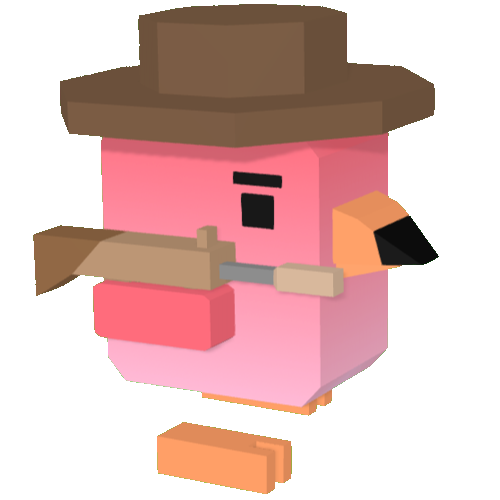
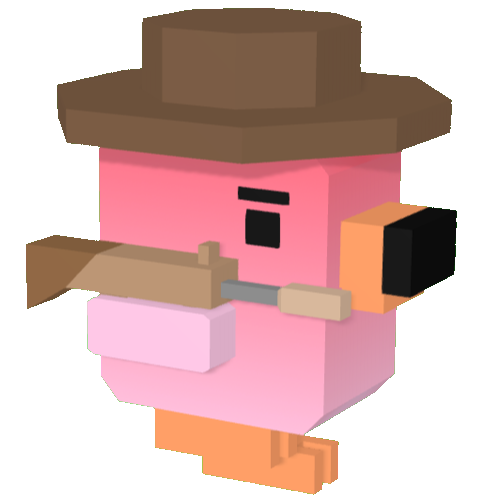
cardinal and fix up flamingo

diff --git a/ts/game/factory/entity_factory.ts b/ts/game/factory/entity_factory.ts
@@ -33,6 +33,7 @@ import { Shades } from 'game/entity/equip/shades'
 import { ShieldRing } from 'game/entity/equip/shield_ring'
 import { TopHat } from 'game/entity/equip/top_hat'
 import { BoobyBeak } from 'game/entity/equip/beak/booby_beak'
+import { CardinalBeak } from 'game/entity/equip/beak/cardinal_beak'
 import { ChickenBeak } from 'game/entity/equip/beak/chicken_beak'
 import { DuckBeak } from 'game/entity/equip/beak/duck_beak'
 import { EagleBeak } from 'game/entity/equip/beak/eagle_beak'
@@ -41,6 +42,7 @@ import { PigeonBeak } from 'game/entity/equip/beak/pigeon_beak'
 import { RavenBeak } from 'game/entity/equip/beak/raven_beak'
 import { RobinBeak } from 'game/entity/equip/beak/robin_beak'
 import { BoobyHair } from 'game/entity/equip/headwear/booby_hair'
+import { CardinalHair } from 'game/entity/equip/headwear/cardinal_hair'
 import { ChickenHair } from 'game/entity/equip/headwear/chicken_hair'
 import { FlamingoHair } from 'game/entity/equip/headwear/flamingo_hair'
 import { PigeonHair } from 'game/entity/equip/headwear/pigeon_hair'
@@ -138,6 +140,8 @@ export namespace EntityFactory {
 		[EntityType.BULLET, (options : EntityOptions) => { return new Bullet(options); }],
 		[EntityType.BUSH, (options : EntityOptions) => { return new Bush(options); }],
 		[EntityType.CALIBER, (options : EntityOptions) => { return new Caliber(options); }],
+		[EntityType.CARDINAL_BEAK, (options : EntityOptions) => { return new CardinalBeak(options); }],
+		[EntityType.CARDINAL_HAIR, (options : EntityOptions) => { return new CardinalHair(options); }],
 		[EntityType.CARTRIDGE, (options : EntityOptions) => { return new Cartridge(options); }],
 		[EntityType.CHARGED_BOLT, (options : EntityOptions) => { return new ChargedBolt(options); }],
 		[EntityType.CHICKEN_BEAK, (options : EntityOptions) => { return new ChickenBeak(options); }],

diff --git a/ts/game/entity/player.ts b/ts/game/entity/player.ts
@@ -109,6 +109,7 @@ export class Player extends EntityBase implements EquipEntity, InteractEntity {
 
 	private static readonly _birdTextures = new Map<BirdType, TextureType>([
 		[BirdType.BOOBY, TextureType.BIRD_BOOBY],
+		[BirdType.CARDINAL, TextureType.BIRD_CARDINAL],
 		[BirdType.CHICKEN, TextureType.BIRD_CHICKEN],
 		[BirdType.DUCK, TextureType.BIRD_DUCK],
 		[BirdType.EAGLE, TextureType.BIRD_EAGLE],
@@ -119,6 +120,7 @@ export class Player extends EntityBase implements EquipEntity, InteractEntity {
 	]);
 	private static readonly _eyeTextures = new Map<BirdType, TextureType>([
 		[BirdType.BOOBY, TextureType.BLACK_EYE],
+		[BirdType.CARDINAL, TextureType.WHITE_EYE],
 		[BirdType.CHICKEN, TextureType.BLACK_EYE],
 		[BirdType.DUCK, TextureType.BLACK_EYE],
 		[BirdType.EAGLE, TextureType.EAGLE_EYE],
@@ -130,6 +132,7 @@ export class Player extends EntityBase implements EquipEntity, InteractEntity {
 
 	private static readonly _beakTypes = new Map<BirdType, EntityType>([
 		[BirdType.BOOBY, EntityType.BOOBY_BEAK],
+		[BirdType.CARDINAL, EntityType.CARDINAL_BEAK],
 		[BirdType.CHICKEN, EntityType.CHICKEN_BEAK],
 		[BirdType.DUCK, EntityType.DUCK_BEAK],
 		[BirdType.EAGLE, EntityType.EAGLE_BEAK],
@@ -140,6 +143,7 @@ export class Player extends EntityBase implements EquipEntity, InteractEntity {
 	]);
 	private static readonly _hairTypes = new Map<BirdType, EntityType>([
 		[BirdType.BOOBY, EntityType.BOOBY_HAIR],
+		[BirdType.CARDINAL, EntityType.CARDINAL_HAIR],
 		[BirdType.CHICKEN, EntityType.CHICKEN_HAIR],
 		[BirdType.FLAMINGO, EntityType.FLAMINGO_HAIR],
 		[BirdType.PIGEON, EntityType.PIGEON_HAIR],

diff --git a/ts/game/factory/stat_factory.ts b/ts/game/factory/stat_factory.ts
@@ -91,6 +91,10 @@ export namespace StatFactory {
 			[StatType.CHARGE_DELAY, 300],
 			[StatType.USE_JUICE, 33],
 		])],
+		[EntityType.CARDINAL_BEAK, new Map([
+			[StatType.CHARGE_DELAY, 500],
+			[StatType.USE_JUICE, 50],
+		])],
 		[EntityType.CHICKEN_BEAK, new Map([
 			[StatType.CHARGE_DELAY, 500],
 			[StatType.USE_JUICE, 50],
@@ -205,11 +209,11 @@ export namespace StatFactory {
 		[EntityType.MEGA_ROCKET, new Map([
 			[StatType.DAMAGE, 96],
 		])],
-		// 150 DPS + 360 delay
+		// 150 DPS + 400 delay
 		[EntityType.GATLING, new Map([
 			// TODO: fill out recoil values
-			[StatType.BURSTS, 20],
-			[StatType.CHARGED_BURSTS, 10],
+			[StatType.BURSTS, 16],
+			[StatType.CHARGED_BURSTS, 8],
 			[StatType.CHARGED_FIRE_TIME, 40],
 			[StatType.CHARGED_FORCE, 0],
 			[StatType.CHARGED_RELOAD_TIME, 600],
@@ -221,7 +225,7 @@ export namespace StatFactory {
 			[StatType.PROJECTILE_SPEED, 0.8],
 			[StatType.PROJECTILE_TTL, 425],
 			[StatType.RELOAD_TIME, 600],
-			[StatType.REV_TIME, 360],
+			[StatType.REV_TIME, 400],
 			[StatType.VERTICAL_RECOIL, 0],
 		])],
 		[EntityType.CALIBER, new Map([
@@ -375,7 +379,7 @@ export namespace StatFactory {
 			[StatType.DAMAGE, 40],
 		])],
 		[EntityType.PURPLE_LASER, new Map([
-			[StatType.DAMAGE, 50],
+			[StatType.DAMAGE, 45],
 		])],
 		// 75 DPS
 		// 3 shots in 600ms
@@ -418,7 +422,7 @@ export namespace StatFactory {
 			[StatType.DAMAGE, 25],
 		])],
 		[EntityType.LASER, new Map([
-			[StatType.DAMAGE, 70],
+			[StatType.DAMAGE, 60],
 		])],
 	])
 

diff --git a/ts/game/entity/equip/beak/cardinal_beak.ts b/ts/game/entity/equip/beak/cardinal_beak.ts
@@ -1,0 +1,15 @@
+
+import { EntityOptions } from 'game/entity'
+import { EntityType } from 'game/entity/api'
+import { Beak } from 'game/entity/equip/beak'
+import { MeshType, SoundType } from 'game/factory/api'
+
+export class CardinalBeak extends Beak {
+
+	constructor(options : EntityOptions) {
+		super(EntityType.CARDINAL_BEAK, options);
+	}
+
+	override meshType() : MeshType { return MeshType.CARDINAL_BEAK; }
+	override soundType() : SoundType { return SoundType.CARDINAL_SOUND; }
+}

diff --git a/ts/game/entity/equip/headwear/cardinal_hair.ts b/ts/game/entity/equip/headwear/cardinal_hair.ts
@@ -1,0 +1,14 @@
+
+import { EntityOptions } from 'game/entity'
+import { EntityType } from 'game/entity/api'
+import { Headwear } from 'game/entity/equip/headwear'
+import { MeshType } from 'game/factory/api'
+
+export class CardinalHair extends Headwear {
+
+	constructor(options : EntityOptions) {
+		super(EntityType.CARDINAL_HAIR, options);
+	}
+
+	override meshType() : MeshType { return MeshType.CARDINAL_HAIR; }
+}

diff --git a/ts/game/factory/api.ts b/ts/game/factory/api.ts
@@ -316,6 +316,8 @@ export enum MeshType {
 	BIRD,
 	BOOBY_BEAK,
 	BOOBY_HAIR,
+	CARDINAL_BEAK,
+	CARDINAL_HAIR,
 	CHICKEN_BEAK,
 	CHICKEN_HAIR,
 	DUCK_BEAK,
@@ -412,6 +414,7 @@ export enum SoundType {
 	BOLT,
 	BOOM,
 	BOOST,
+	CARDINAL_SOUND,
 	CAW,
 	CINEMATIC_WOOSH,
 	CHARGE,
@@ -542,6 +545,7 @@ export enum TextureType {
 	BILLBOARD_HENRY,
 
 	BIRD_BOOBY,
+	BIRD_CARDINAL,
 	BIRD_CHICKEN,
 	BIRD_DUCK,
 	BIRD_EAGLE,

diff --git a/ts/ui/wrapper/bird_wrapper.ts b/ts/ui/wrapper/bird_wrapper.ts
@@ -12,6 +12,7 @@ export class BirdWrapper extends HtmlWrapper<HTMLElement> {
 	// TODO: move to StringFactory
 	private static readonly _names = new Map([
 		[BirdType.BOOBY, "Blue-footed Booby"],
+		[BirdType.CARDINAL, "Cardinal"],
 		[BirdType.CHICKEN, "Chicken"],
 		[BirdType.DUCK, "Mallard Duck"],
 		[BirdType.EAGLE, "Bald Eagle"],

diff --git a/ts/game/factory/sound_factory.ts b/ts/game/factory/sound_factory.ts
@@ -63,6 +63,12 @@ export namespace SoundFactory {
 				spatialSound: true,
 			},
 		}],
+		[SoundType.CARDINAL_SOUND, {
+			path: "cardinal_sound.mp3",
+			options: {
+				spatialSound: true,
+			}
+		}],
 		[SoundType.CAW, {
 			path: "caw.mp3",
 			options: {

diff --git a/ts/game/entity/api.ts b/ts/game/entity/api.ts
@@ -44,6 +44,8 @@ export enum EntityType {
 	BUFF_CRATE,
 	BULLET,
 	BUSH,
+	CARDINAL_BEAK,
+	CARDINAL_HAIR,
 	CARTRIDGE,
 	CALIBER,
 	CHARGED_BOLT,
@@ -145,6 +147,7 @@ export enum BirdType {
 	UNKNOWN,
 
 	BOOBY,
+	CARDINAL,
 	CHICKEN,
 	DUCK,
 	EAGLE,
